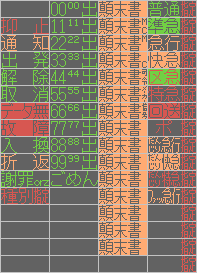
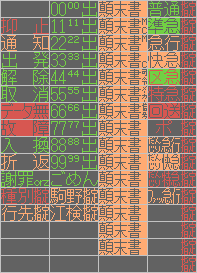
運行設定に名称変更、行先指定を追加

Changed region(s): [[0.0, 0.674, 0.4873, 0.8205]]

diff --git a/TatehamaCommanderTable/KokuchiForm.cs b/TatehamaCommanderTable/KokuchiForm.cs
@@ -386,7 +386,6 @@ namespace TatehamaCommanderTable
                                 }
                                 break;
                             case OperationNotificationType.Other:
-                            case OperationNotificationType.Class:
                                 //1000+1000点滅               
                                 if (DeltaTime % 2000 < 1000)
                                 {
@@ -395,6 +394,25 @@ namespace TatehamaCommanderTable
                                 else
                                 {
                                     SetLED(item, 1);
+                                }
+                                break;
+                            case OperationNotificationType.Class:
+                                //1000+1000点滅               
+                                if (DeltaTime % 4000 < 1000)
+                                {
+                                    SetLED(item, 0);
+                                }
+                                else if (DeltaTime % 4000 < 2000)
+                                {
+                                    SetLED(item, 1);
+                                }
+                                else if (DeltaTime % 4000 < 3000)
+                                {
+                                    SetLED(item, 2);
+                                }
+                                else
+                                {
+                                    SetLED(item, 3);
                                 }
                                 break;
                             default:
@@ -616,7 +634,72 @@ namespace TatehamaCommanderTable
                         }
                         break;
                     case OperationNotificationType.Class:
-                        if (index == 1)
+                        //回送行先指定あり
+                        if (data.Content == "TH75NiS")
+                        {
+                            switch (index)
+                            {
+                                case 0:
+                                    DisplayImageByPosNum(data.DisplayName, 3, 6);
+                                    break;
+                                case 1:
+                                    DisplayImageByPosNum(data.DisplayName, 0, 12);
+                                    break;
+                                case 2:
+                                    DisplayImageByPosNum(data.DisplayName, 1, 11);
+                                    break;
+                                case 3:
+                                    DisplayImageByPosNum(data.DisplayName, 0, 11);
+                                    break;
+                                default:
+                                    DisplayImageByPosNum(data.DisplayName, 0, 7);
+                                    break;
+                            }
+                            break;
+                        }
+                        if (data.Content == "TH66NiS")
+                        {
+                            switch (index)
+                            {
+                                case 0:
+                                    DisplayImageByPosNum(data.DisplayName, 3, 6);
+                                    break;
+                                case 1:
+                                    DisplayImageByPosNum(data.DisplayName, 0, 12);
+                                    break;
+                                case 2:
+                                    DisplayImageByPosNum(data.DisplayName, 1, 12);
+                                    break;
+                                case 3:
+                                    DisplayImageByPosNum(data.DisplayName, 0, 11);
+                                    break;
+                                default:
+                                    DisplayImageByPosNum(data.DisplayName, 0, 7);
+                                    break;
+                            }
+                            break;
+                        }
+                        if (data.Content == "TH66")
+                        {
+                            switch (index)
+                            {
+                                case 0:
+                                case 2:
+                                    DisplayImageByPosNum(data.DisplayName, 1, 12);
+                                    break;
+                                case 1:
+                                case 3:
+                                    DisplayImageByPosNum(data.DisplayName, 0, 12);
+                                    break;
+                                default:
+                                    DisplayImageByPosNum(data.DisplayName, 0, 7);
+                                    break;
+                            }
+                            break;
+                        }
+
+                        //通常種別指定
+                        if (index == 1 || index == 3)
                         {
                             DisplayImageByPosNum(data.DisplayName, 0, 11);
                             break;
@@ -758,18 +841,21 @@ namespace TatehamaCommanderTable
         {
             return selectClass switch
             {
-                "普通" => "Local",
-                "準急" => "SemiExp",
-                "急行" => "Exp",
-                "快急" => "RapExp",
-                "区急" => "SecExp",
-                "特急" => "LtdExp",
-                "回送" => "NiS",
-                "ポ" => "Po",
-                "だんじり急行" => "DanExp",
-                "だんじり快急" => "DanRapExp",
-                "だんじり特急" => "DanLtdExp",
-                "ファッ急行" => "FucExp",
+                "種：普通" => "Local",
+                "種：準急" => "SemiExp",
+                "種：急行" => "Exp",
+                "種：快急" => "RapExp",
+                "種：区急" => "SecExp",
+                "種：特急" => "LtdExp",
+                "種：回送" => "NiS",
+                "種：ポ" => "Po",
+                "種：だんじり急行" => "DanExp",
+                "種：だんじり快急" => "DanRapExp",
+                "種：だんじり特急" => "DanLtdExp",
+                "種：ファッ急行" => "FucExp",
+                "種：回送　行：駒野" => "TH75NiS",
+                "種：回送　行：江検" => "TH66NiS",
+                "行：江検" => "TH66",
                 _ => null
             };
         }

diff --git a/TatehamaCommanderTable/KokuchiForm.Designer.cs b/TatehamaCommanderTable/KokuchiForm.Designer.cs
@@ -371,7 +371,7 @@
             Kokuchi_ComboBox_SelectClass.DropDownStyle = System.Windows.Forms.ComboBoxStyle.DropDownList;
             Kokuchi_ComboBox_SelectClass.Font = new System.Drawing.Font("BIZ UDゴシック", 14.25F, System.Drawing.FontStyle.Regular, System.Drawing.GraphicsUnit.Point, 128);
             Kokuchi_ComboBox_SelectClass.FormattingEnabled = true;
-            Kokuchi_ComboBox_SelectClass.Items.AddRange(new object[] { "普通", "準急", "急行", "快急", "区急", "特急", "回送", "ポ", "だんじり急行", "だんじり快急", "だんじり特急", "ファッ急行" });
+            Kokuchi_ComboBox_SelectClass.Items.AddRange(new object[] { "種：普通", "種：準急", "種：急行", "種：快急", "種：区急", "種：特急", "種：回送", "種：ポ", "種：だんじり急行", "種：だんじり快急", "種：だんじり特急", "種：ファッ急行", "種：回送　行：駒野", "種：回送　行：江検", "行：江検" });
             Kokuchi_ComboBox_SelectClass.Location = new System.Drawing.Point(448, 178);
             Kokuchi_ComboBox_SelectClass.Margin = new System.Windows.Forms.Padding(4, 2, 4, 2);
             Kokuchi_ComboBox_SelectClass.Name = "Kokuchi_ComboBox_SelectClass";
@@ -458,7 +458,7 @@
             Kokuchi_RadioButton_Class.Size = new System.Drawing.Size(100, 40);
             Kokuchi_RadioButton_Class.TabIndex = 22;
             Kokuchi_RadioButton_Class.TabStop = true;
-            Kokuchi_RadioButton_Class.Text = "種別指定";
+            Kokuchi_RadioButton_Class.Text = "運行指定";
             Kokuchi_RadioButton_Class.TextAlign = System.Drawing.ContentAlignment.MiddleCenter;
             Kokuchi_RadioButton_Class.UseVisualStyleBackColor = false;
             // 
